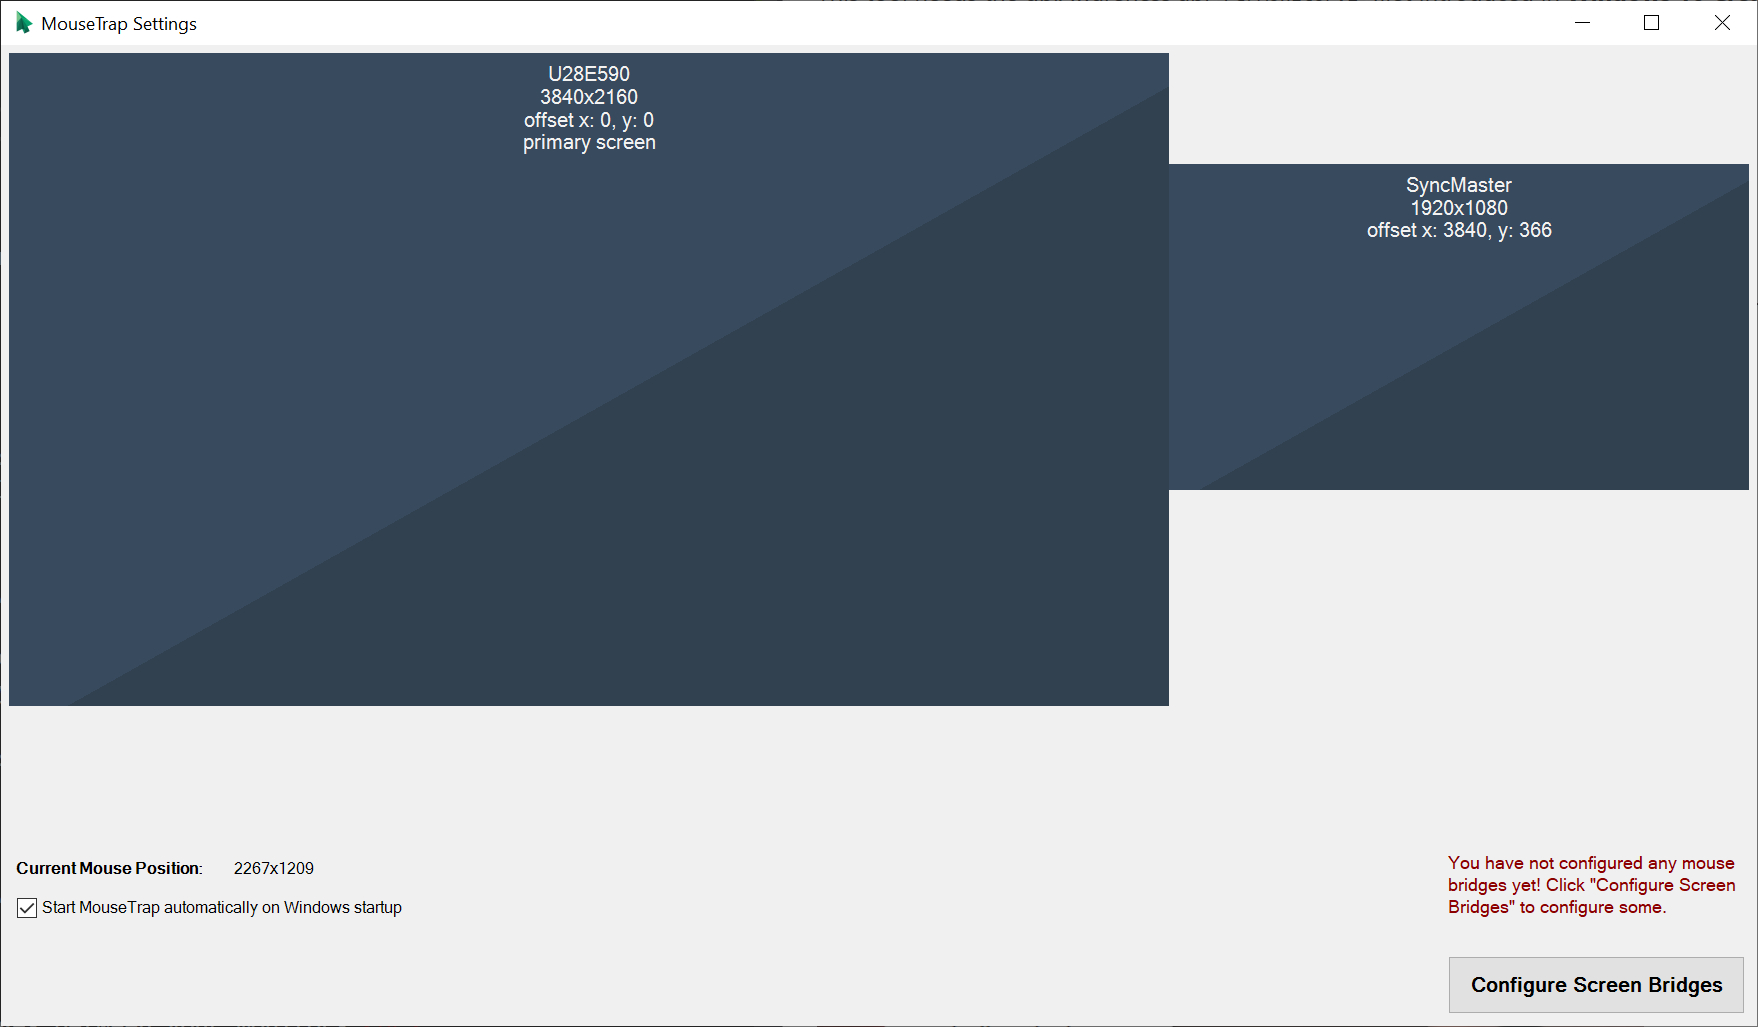
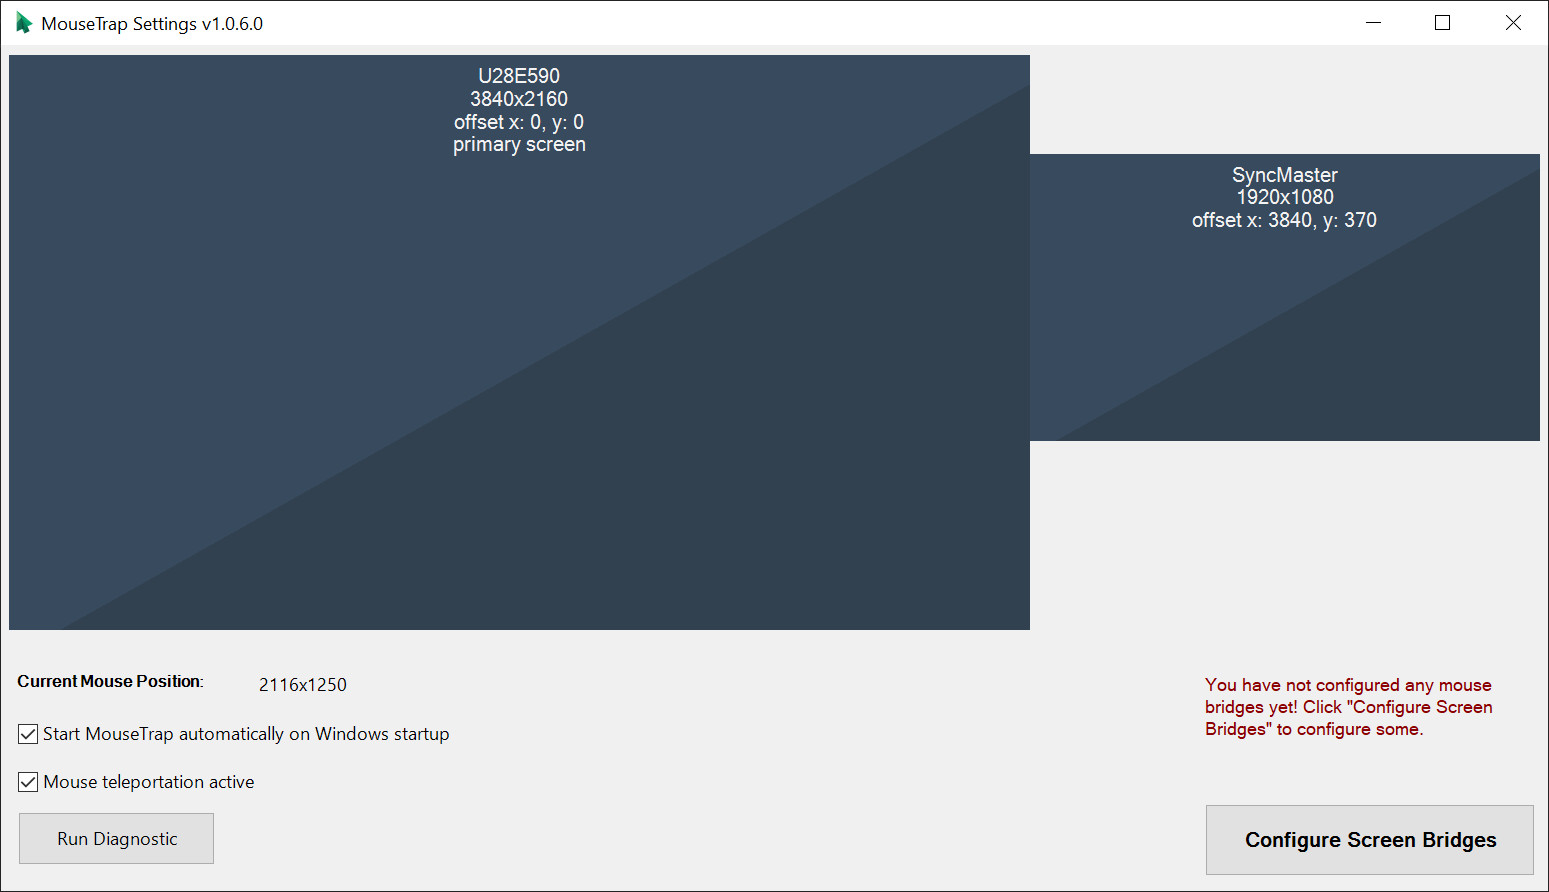
update release build scripts

diff --git a/MouseTrap/src/Forms/ConfigFrom.Designer.cs b/MouseTrap/src/Forms/ConfigFrom.Designer.cs
@@ -57,7 +57,7 @@ namespace MouseTrap.Forms
             this.tableLayoutPanel1.RowCount = 2;
             this.tableLayoutPanel1.RowStyles.Add(new System.Windows.Forms.RowStyle(System.Windows.Forms.SizeType.Percent, 100F));
             this.tableLayoutPanel1.RowStyles.Add(new System.Windows.Forms.RowStyle(System.Windows.Forms.SizeType.Absolute, 250F));
-            this.tableLayoutPanel1.Size = new System.Drawing.Size(1951, 1226);
+            this.tableLayoutPanel1.Size = new System.Drawing.Size(1378, 844);
             this.tableLayoutPanel1.TabIndex = 1;
             // 
             // ScreensView
@@ -68,7 +68,7 @@ namespace MouseTrap.Forms
             this.ScreensView.Margin = new System.Windows.Forms.Padding(4, 5, 4, 5);
             this.ScreensView.Name = "ScreensView";
             this.ScreensView.Padding = new System.Windows.Forms.Padding(4, 5, 4, 5);
-            this.ScreensView.Size = new System.Drawing.Size(1943, 966);
+            this.ScreensView.Size = new System.Drawing.Size(1370, 584);
             this.ScreensView.TabIndex = 0;
             // 
             // panel1
@@ -81,10 +81,10 @@ namespace MouseTrap.Forms
             this.panel1.Controls.Add(this.CursorPosition);
             this.panel1.Controls.Add(this.label1);
             this.panel1.Dock = System.Windows.Forms.DockStyle.Fill;
-            this.panel1.Location = new System.Drawing.Point(3, 980);
+            this.panel1.Location = new System.Drawing.Point(3, 598);
             this.panel1.Margin = new System.Windows.Forms.Padding(3, 4, 3, 4);
             this.panel1.Name = "panel1";
-            this.panel1.Size = new System.Drawing.Size(1945, 242);
+            this.panel1.Size = new System.Drawing.Size(1372, 242);
             this.panel1.TabIndex = 2;
             // 
             // TeleportationActive
@@ -114,7 +114,7 @@ namespace MouseTrap.Forms
             this.InfoText.BorderStyle = System.Windows.Forms.BorderStyle.None;
             this.InfoText.Font = new System.Drawing.Font("Microsoft Sans Serif", 9F, System.Drawing.FontStyle.Regular, System.Drawing.GraphicsUnit.Point);
             this.InfoText.ForeColor = System.Drawing.Color.DarkRed;
-            this.InfoText.Location = new System.Drawing.Point(1605, 28);
+            this.InfoText.Location = new System.Drawing.Point(1032, 28);
             this.InfoText.Margin = new System.Windows.Forms.Padding(3, 4, 3, 4);
             this.InfoText.Multiline = true;
             this.InfoText.Name = "InfoText";
@@ -139,7 +139,7 @@ namespace MouseTrap.Forms
             // 
             this.BtnConfigure.Anchor = ((System.Windows.Forms.AnchorStyles)((System.Windows.Forms.AnchorStyles.Bottom | System.Windows.Forms.AnchorStyles.Right)));
             this.BtnConfigure.Font = new System.Drawing.Font("Microsoft Sans Serif", 10F, System.Drawing.FontStyle.Bold, System.Drawing.GraphicsUnit.Point);
-            this.BtnConfigure.Location = new System.Drawing.Point(1605, 159);
+            this.BtnConfigure.Location = new System.Drawing.Point(1032, 159);
             this.BtnConfigure.Margin = new System.Windows.Forms.Padding(3, 4, 3, 4);
             this.BtnConfigure.Name = "BtnConfigure";
             this.BtnConfigure.Size = new System.Drawing.Size(330, 72);
@@ -176,7 +176,7 @@ namespace MouseTrap.Forms
             // 
             this.AutoScaleDimensions = new System.Drawing.SizeF(10F, 25F);
             this.AutoScaleMode = System.Windows.Forms.AutoScaleMode.Font;
-            this.ClientSize = new System.Drawing.Size(1951, 1226);
+            this.ClientSize = new System.Drawing.Size(1378, 844);
             this.Controls.Add(this.tableLayoutPanel1);
             this.Margin = new System.Windows.Forms.Padding(3, 4, 3, 4);
             this.Name = "ConfigFrom";

diff --git a/MouseTrap/Properties/AssemblyInfo.cs b/MouseTrap/Properties/AssemblyInfo.cs
@@ -1,4 +1,4 @@
-using System.Reflection;
+using System.Reflection;
 using System.Runtime.InteropServices;
 using MouseTrap;
 
@@ -11,7 +11,7 @@ using MouseTrap;
 [assembly: AssemblyConfiguration("")]
 [assembly: AssemblyCompany("LarchSys")]
 [assembly: AssemblyProduct(App.Name)]
-[assembly: AssemblyCopyright("Copyright ©  2018")]
+[assembly: AssemblyCopyright("Copyright © 2020")]
 [assembly: AssemblyTrademark("")]
 [assembly: AssemblyCulture("")]
 

diff --git a/MouseTrap/src/Forms/DiagnosticForm.cs b/MouseTrap/src/Forms/DiagnosticForm.cs
@@ -39,6 +39,10 @@ namespace MouseTrap.Forms {
             this.BtnCopy.Click += delegate {
                 var sb = new StringBuilder();
 
+                // update log infos
+                LogfileBox.Text = string.Empty;
+                InitLogFileInfos();
+
                 sb.AppendLine(InfosBox.Text);
                 sb.AppendLine();
                 sb.AppendLine();

diff --git a/README.md b/README.md
@@ -8,8 +8,10 @@ different resolutions and scaling settings.
 
 ## Min requirements
 
-This tool needs the dpiAwareness API `PerMonitorV2` first introduced in **Windows 10 Creators update**.<br>
-So **for this tool to function correctly** you should have at least **Windows build 1703**
+For this tool to function correctly you should have:
+
+ - At least **Windows 10 Creators update** (Build 1703)
+ - [**.NET 5 Runtime**](https://dotnet.microsoft.com/download/dotnet/current/runtime) (in most cases it will notify you if the runtime is missing)
 
 
 ## Download and Setup
@@ -20,7 +22,7 @@ You can find the latest release here:
 You can install MouseTrap with **chocolatey**:
 ```Powershell
 # install the package
-choco install mousetrap --version 1.0.2
+choco install mousetrap
 
 # running it
 mousetrap
@@ -33,6 +35,21 @@ mousetrap
 >Set-ExecutionPolicy Bypass -Scope Process -Force; iex ((New-Object >System.Net.WebClient).DownloadString('https://chocolatey.org/install.ps1'))
 >```
 >*[Why Chocolatey](https://chocolatey.org/docs/why) + [installation](https://chocolatey.org/docs/installation)*
+
+
+## Changelog
+
+### Version 1.0.6
+
+ - **Migrate to .NET 5** _(from legacy .NET Framework)_
+ - Adds **Diagnostic Window**
+   - Realtime Log Viewer
+   - Configutation Viewer
+   - LogFile Viewer
+ - Implements a **potential fix** for **[#2 Unexpected Cursor Teleportation](https://github.com/r-Larch/MouseTrap/issues/2)**
+ - Adds an option to **disable Mouse teleportation** - That's usefull while gaming in fullscreen!
+ - Lots of smaller bugfixes
+
 
 ## Usage and Configuration
 
